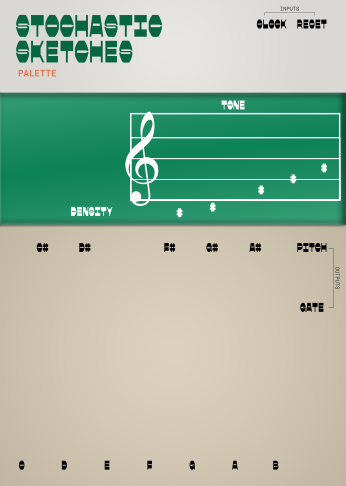
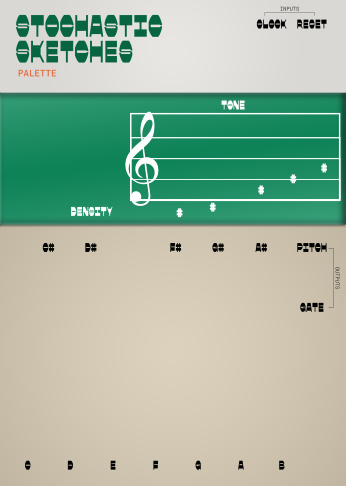
feat(palette): add piano note sliders

diff --git a/src/Palette.cpp b/src/Palette.cpp
@@ -100,6 +100,30 @@ struct PaletteDensityKnob : app::SvgKnob {
 	}
 };
 
+struct PaletteWhiteKeySlider : app::SvgSlider {
+	PaletteWhiteKeySlider() {
+		setBackgroundSvg(window::Svg::load(
+			asset::plugin(pluginInstance, "res/PaletteWhiteKeySlider.svg")
+		));
+		setHandleSvg(window::Svg::load(
+			asset::plugin(pluginInstance, "res/PaletteSliderHandle.svg")
+		));
+		setHandlePosCentered(mm2px(Vec(4.f, 19.5f)), mm2px(Vec(4.f, 2.5f)));
+	}
+};
+
+struct PaletteSharpKeySlider : app::SvgSlider {
+	PaletteSharpKeySlider() {
+		setBackgroundSvg(window::Svg::load(
+			asset::plugin(pluginInstance, "res/PaletteSharpKeySlider.svg")
+		));
+		setHandleSvg(window::Svg::load(
+			asset::plugin(pluginInstance, "res/PaletteSliderHandle.svg")
+		));
+		setHandlePosCentered(mm2px(Vec(4.f, 19.5f)), mm2px(Vec(4.f, 2.5f)));
+	}
+};
+
 struct PaletteWidget : ModuleWidget {
 	PaletteWidget(Palette* module) {
 		setModule(module);
@@ -109,18 +133,20 @@ struct PaletteWidget : ModuleWidget {
 		addChildBottom(artwork);
 
 		addParam(createParamCentered<PaletteDensityKnob>(mm2px(Vec(24.257, 48.873)), module, Palette::DENSITY_PARAM));
-		addParam(createParamCentered<RoundBlackKnob>(mm2px(Vec(12.455, 80.301)), module, Palette::NOTE_CS_PARAM));
-		addParam(createParamCentered<RoundBlackKnob>(mm2px(Vec(23.664, 80.196)), module, Palette::NOTE_DS_PARAM));
-		addParam(createParamCentered<RoundBlackKnob>(mm2px(Vec(46.082, 80.196)), module, Palette::NOTE_FS_PARAM));
-		addParam(createParamCentered<RoundBlackKnob>(mm2px(Vec(57.292, 80.196)), module, Palette::NOTE_GS_PARAM));
-		addParam(createParamCentered<RoundBlackKnob>(mm2px(Vec(68.679, 80.11)), module, Palette::NOTE_AS_PARAM));
-		addParam(createParamCentered<RoundBlackKnob>(mm2px(Vec(6.822, 106.486)), module, Palette::NOTE_C_PARAM));
-		addParam(createParamCentered<RoundBlackKnob>(mm2px(Vec(18.087, 106.486)), module, Palette::NOTE_D_PARAM));
-		addParam(createParamCentered<RoundBlackKnob>(mm2px(Vec(29.353, 106.486)), module, Palette::NOTE_E_PARAM));
-		addParam(createParamCentered<RoundBlackKnob>(mm2px(Vec(40.619, 106.486)), module, Palette::NOTE_F_PARAM));
-		addParam(createParamCentered<RoundBlackKnob>(mm2px(Vec(51.884, 106.486)), module, Palette::NOTE_G_PARAM));
-		addParam(createParamCentered<RoundBlackKnob>(mm2px(Vec(63.15, 106.486)), module, Palette::NOTE_A_PARAM));
-		addParam(createParamCentered<RoundBlackKnob>(mm2px(Vec(73.953, 106.486)), module, Palette::NOTE_B_PARAM));
+
+		addParam(createParamCentered<PaletteSharpKeySlider>(mm2px(Vec(12.455, 80.301)), module, Palette::NOTE_CS_PARAM));
+		addParam(createParamCentered<PaletteSharpKeySlider>(mm2px(Vec(23.664, 80.196)), module, Palette::NOTE_DS_PARAM));
+		addParam(createParamCentered<PaletteSharpKeySlider>(mm2px(Vec(46.082, 80.196)), module, Palette::NOTE_FS_PARAM));
+		addParam(createParamCentered<PaletteSharpKeySlider>(mm2px(Vec(57.292, 80.196)), module, Palette::NOTE_GS_PARAM));
+		addParam(createParamCentered<PaletteSharpKeySlider>(mm2px(Vec(68.679, 80.11)), module, Palette::NOTE_AS_PARAM));
+
+		addParam(createParamCentered<PaletteWhiteKeySlider>(mm2px(Vec(6.822, 106.486)), module, Palette::NOTE_C_PARAM));
+		addParam(createParamCentered<PaletteWhiteKeySlider>(mm2px(Vec(18.087, 106.486)), module, Palette::NOTE_D_PARAM));
+		addParam(createParamCentered<PaletteWhiteKeySlider>(mm2px(Vec(29.353, 106.486)), module, Palette::NOTE_E_PARAM));
+		addParam(createParamCentered<PaletteWhiteKeySlider>(mm2px(Vec(40.619, 106.486)), module, Palette::NOTE_F_PARAM));
+		addParam(createParamCentered<PaletteWhiteKeySlider>(mm2px(Vec(51.884, 106.486)), module, Palette::NOTE_G_PARAM));
+		addParam(createParamCentered<PaletteWhiteKeySlider>(mm2px(Vec(63.15, 106.486)), module, Palette::NOTE_A_PARAM));
+		addParam(createParamCentered<PaletteWhiteKeySlider>(mm2px(Vec(73.953, 106.486)), module, Palette::NOTE_B_PARAM));
 
 		addInput(createInputCentered<PJ301MPort>(mm2px(Vec(71.802, 13.236)), module, Palette::CLOCK_INPUT));
 		addInput(createInputCentered<PJ301MPort>(mm2px(Vec(82.427, 13.236)), module, Palette::RESET_INPUT));
@@ -128,18 +154,18 @@ struct PaletteWidget : ModuleWidget {
 		addOutput(createOutputCentered<PJ301MPort>(mm2px(Vec(82.427, 72.36)), module, Palette::PITCH_OUTPUT));
 		addOutput(createOutputCentered<PJ301MPort>(mm2px(Vec(82.427, 87.567)), module, Palette::GATE_OUTPUT));
 
-		addChild(createLightCentered<MediumLight<RedLight>>(mm2px(Vec(87.718, 41.981)), module, Palette::NOTE_B_LIGHT_LIGHT));
-		addChild(createLightCentered<MediumLight<RedLight>>(mm2px(Vec(83.19, 44.467)), module, Palette::NOTE_AS_LIGHT_LIGHT));
-		addChild(createLightCentered<MediumLight<RedLight>>(mm2px(Vec(80.048, 44.545)), module, Palette::NOTE_A_LIGHT_LIGHT));
-		addChild(createLightCentered<MediumLight<RedLight>>(mm2px(Vec(71.983, 47.375)), module, Palette::NOTE_G_LIGHT_LIGHT));
-		addChild(createLightCentered<MediumLight<RedLight>>(mm2px(Vec(74.995, 47.403)), module, Palette::NOTE_GS_LIGHT_LIGHT));
-		addChild(createLightCentered<MediumLight<RedLight>>(mm2px(Vec(66.644, 50.19)), module, Palette::NOTE_FS_LIGHT_LIGHT));
-		addChild(createLightCentered<MediumLight<RedLight>>(mm2px(Vec(63.634, 50.269)), module, Palette::NOTE_F_LIGHT_LIGHT));
-		addChild(createLightCentered<MediumLight<RedLight>>(mm2px(Vec(59.905, 52.945)), module, Palette::NOTE_E_LIGHT_LIGHT));
-		addChild(createLightCentered<MediumLight<RedLight>>(mm2px(Vec(53.676, 54.812)), module, Palette::NOTE_DS_LIGHT_LIGHT));
-		addChild(createLightCentered<MediumLight<RedLight>>(mm2px(Vec(50.585, 54.845)), module, Palette::NOTE_D_LIGHT_LIGHT));
-		addChild(createLightCentered<MediumLight<RedLight>>(mm2px(Vec(41.898, 56.26)), module, Palette::NOTE_C_LIGHT_LIGHT));
-		addChild(createLightCentered<MediumLight<RedLight>>(mm2px(Vec(44.959, 56.26)), module, Palette::NOTE_CS_LIGHT_LIGHT));
+		addChild(createLightCentered<SmallLight<RedLight>>(mm2px(Vec(87.718, 41.981)), module, Palette::NOTE_B_LIGHT_LIGHT));
+		addChild(createLightCentered<SmallLight<RedLight>>(mm2px(Vec(83.19, 44.467)), module, Palette::NOTE_AS_LIGHT_LIGHT));
+		addChild(createLightCentered<SmallLight<RedLight>>(mm2px(Vec(80.048, 44.545)), module, Palette::NOTE_A_LIGHT_LIGHT));
+		addChild(createLightCentered<SmallLight<RedLight>>(mm2px(Vec(71.983, 47.375)), module, Palette::NOTE_G_LIGHT_LIGHT));
+		addChild(createLightCentered<SmallLight<RedLight>>(mm2px(Vec(74.995, 47.403)), module, Palette::NOTE_GS_LIGHT_LIGHT));
+		addChild(createLightCentered<SmallLight<RedLight>>(mm2px(Vec(66.644, 50.19)), module, Palette::NOTE_FS_LIGHT_LIGHT));
+		addChild(createLightCentered<SmallLight<RedLight>>(mm2px(Vec(63.634, 50.269)), module, Palette::NOTE_F_LIGHT_LIGHT));
+		addChild(createLightCentered<SmallLight<RedLight>>(mm2px(Vec(59.905, 52.945)), module, Palette::NOTE_E_LIGHT_LIGHT));
+		addChild(createLightCentered<SmallLight<RedLight>>(mm2px(Vec(53.676, 54.812)), module, Palette::NOTE_DS_LIGHT_LIGHT));
+		addChild(createLightCentered<SmallLight<RedLight>>(mm2px(Vec(50.585, 54.845)), module, Palette::NOTE_D_LIGHT_LIGHT));
+		addChild(createLightCentered<SmallLight<RedLight>>(mm2px(Vec(41.898, 56.26)), module, Palette::NOTE_C_LIGHT_LIGHT));
+		addChild(createLightCentered<SmallLight<RedLight>>(mm2px(Vec(44.959, 56.26)), module, Palette::NOTE_CS_LIGHT_LIGHT));
 
 		// mm2px(Vec(27.656, 12.169))
 		addChild(createWidget<Widget>(mm2px(Vec(2.66, 29.766))));
